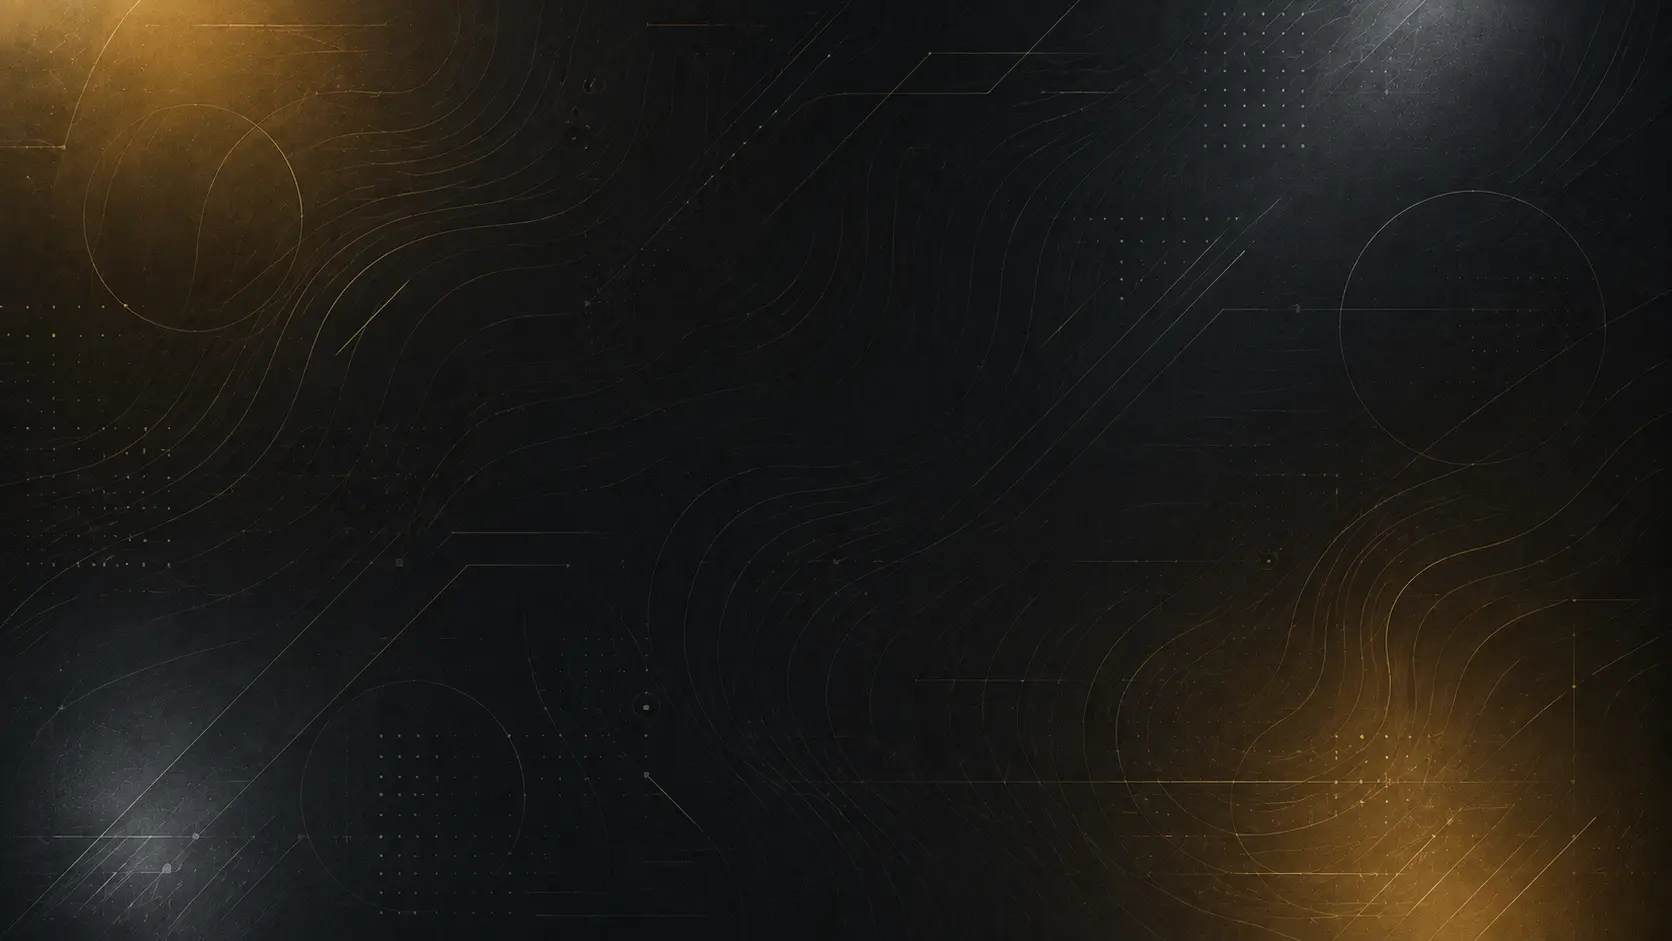
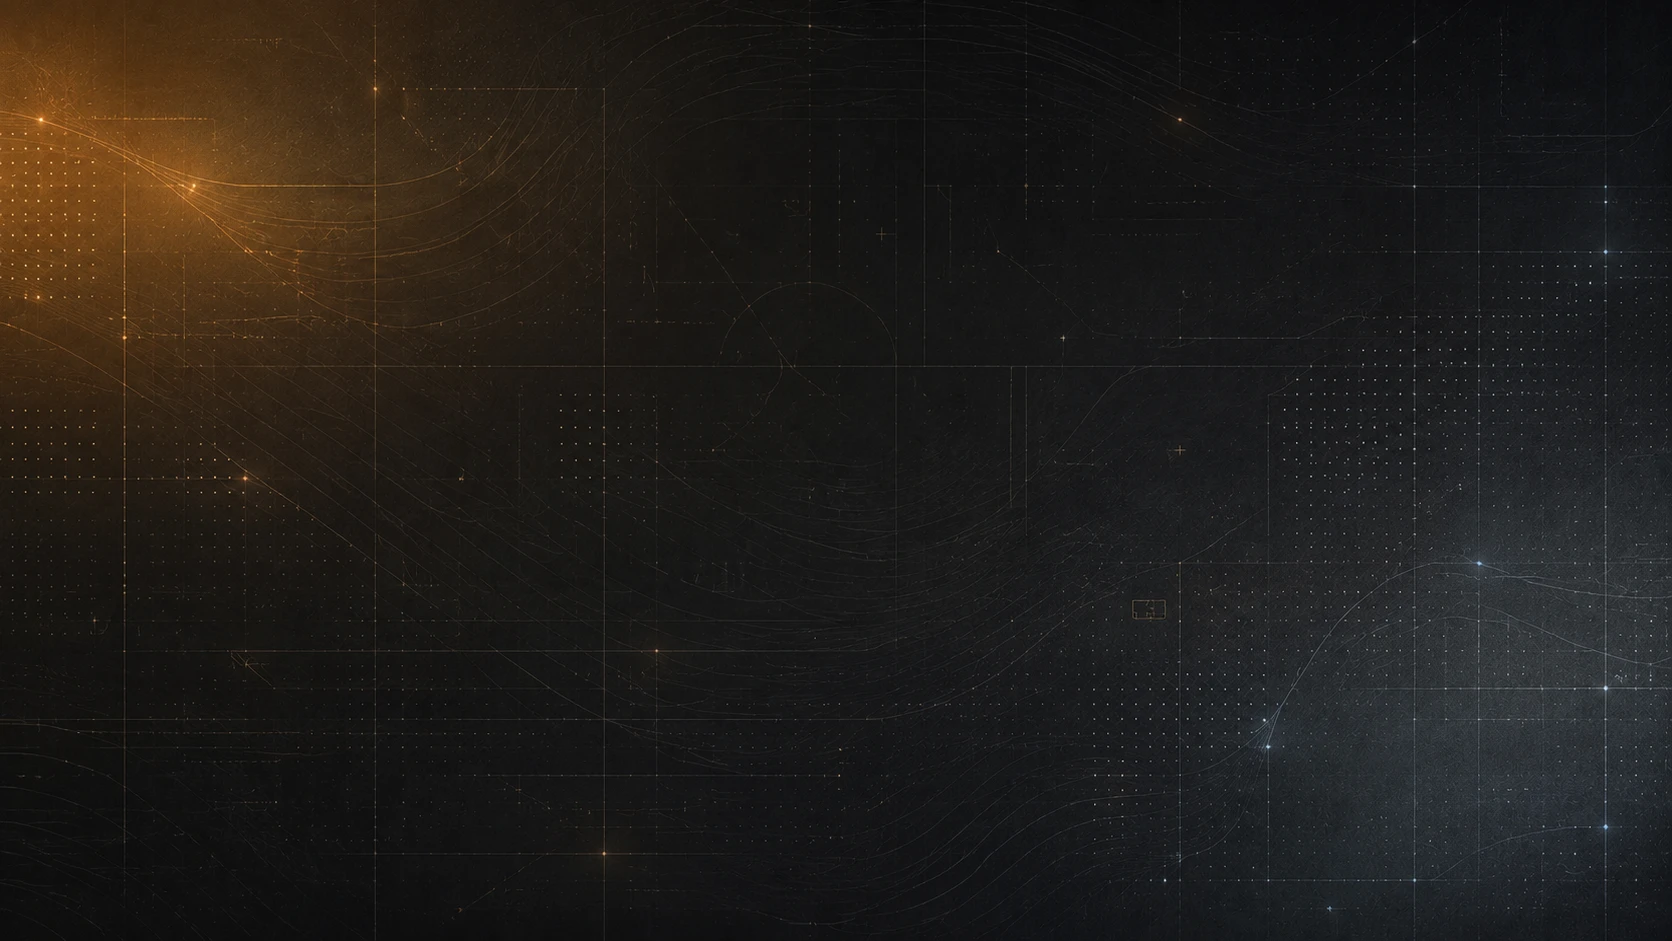
changes made

diff --git a/src/components/sections/Programs.tsx b/src/components/sections/Programs.tsx
@@ -1,6 +1,7 @@
 import Image from "next/image";
 import { ArrowRight } from "lucide-react";
 import { CardGrid, Icon, ProgramCard, Eyebrow, Heading, BodyText, ButtonLink } from "@/components/ui";
+import { Container } from "@/components/layout";
 import { AnimationWrapper, KineticHeadline, ParallaxLayer, MagneticButton } from "@/components/motion";
 import { programs } from "@/content/programs";
 
@@ -15,6 +16,68 @@ import { programs } from "@/content/programs";
  * so it never ends abruptly. Static — no parallax; the TrainingBanner
  * below is this section's one Tier-2 depth cue.
  */
+
+/**
+ * Program card material plane — a SINGLE full-bleed backdrop for the entire
+ * card zone (not confined to any card or Container). Sourced from the
+ * already-approved `luxury-grid-pattern.webp`. It spans the full viewport
+ * width and runs from the bottom edge of the environment image down to the
+ * end of the section, so the luxury grid pattern — not flat dark — is what
+ * shows behind and between the cards, in every otherwise-black background
+ * area. A vertical mask fades the pattern IN from exactly where the
+ * environment image ends (top) and back OUT just before the next section
+ * (bottom), so there is never a hard edge. Fully static — no parallax, no
+ * animation.
+ *
+ * Rendered as a CSS `background-image` rather than `next/image`, because the
+ * pattern must TILE: `PATTERN_SIZE` ("100% auto") scales it to the full
+ * viewport width at its natural aspect ratio — never stretched — and
+ * `PATTERN_REPEAT` ("repeat-y") stacks copies downward so the backdrop stays
+ * continuous however tall the card zone gets. `next/image` with `fill` can
+ * only cover/contain a single instance, so it cannot express a tiled plane.
+ *
+ * Named constants (not inline literals) keep the tuning as one documented
+ * decision:
+ *  - PATTERN_SIZE     — swap the "auto" for a px/% value to scale the tile.
+ *  - PATTERN_REPEAT   — "repeat-y" (vertical tiling) / "repeat" / "no-repeat".
+ *  - PATTERN_OPACITY  — how present the pattern reads.
+ *  - PATTERN_FADE_MASK — transparency mask (not a dark overlay) so the plane
+ *    dissolves into the section background at top and bottom.
+ *
+ * Layering: `z-0` sits above the section's own dark gradient background but
+ * below the card rows (`z-10`). Each `ProgramCard`'s own dark veil (its
+ * resting "shadow", see ProgramCard's MATERIAL_BACKDROP_CLASS) still sits
+ * above this plane and fades on hover to let the pattern shine through as a
+ * backlight around that card.
+ *
+ * The top offsets (280/320/380px) match the environment image's responsive
+ * heights above, so the pattern begins exactly where that image ends.
+ */
+const PATTERN_URL = "url('/images/sections/programs/luxury-grid-pattern.webp')";
+const PATTERN_SIZE = "100% auto"; // full width, natural aspect ratio — no stretch
+const PATTERN_REPEAT = "repeat-y"; // tile downward for a continuous backdrop
+const PATTERN_OPACITY = 0.9;
+const PATTERN_FADE_MASK =
+  "linear-gradient(to bottom, transparent 0px, #000 160px, #000 calc(100% - 80px), transparent 100%)";
+
+function ProgramMaterialPlane() {
+  return (
+    <div
+      aria-hidden="true"
+      className="pointer-events-none absolute inset-x-0 bottom-0 top-[280px] z-0 overflow-hidden sm:top-[320px] lg:top-[380px]"
+      style={{
+        backgroundImage: PATTERN_URL,
+        backgroundSize: PATTERN_SIZE,
+        backgroundRepeat: PATTERN_REPEAT,
+        backgroundPosition: "top center",
+        opacity: PATTERN_OPACITY,
+        WebkitMaskImage: PATTERN_FADE_MASK,
+        maskImage: PATTERN_FADE_MASK,
+      }}
+    />
+  );
+}
+
 export function Programs() {
   const firstRow = programs.slice(0, 3);
   const secondRow = programs.slice(3);
@@ -151,38 +214,50 @@ export function Programs() {
         }}
       />
 
-      <div className="relative z-10 flex flex-col gap-10 pt-10">
-        <p className="-mt-4 flex items-center gap-2 font-body text-caption font-semibold uppercase tracking-wide text-text-secondary-dark sm:hidden">
-          Swipe to explore all 9 programs
-          <Icon icon={ArrowRight} size="sm" aria-hidden />
-        </p>
-        <CardGrid columns={3} reveal="premium">
-          {firstRow.map((program, index) => (
-            <ProgramCard
-              key={program.slug}
-              program={program}
-              index={index}
-              featured={program.slug === "crossfit"}
-              motion="premium"
-            />
-          ))}
-        </CardGrid>
+      {/* Full-bleed luxury pattern backdrop for the whole card zone — spans
+          the viewport width and fades in from where the environment image
+          ends, so the pattern (not flat dark) fills the background behind
+          and between every card row. */}
+      <ProgramMaterialPlane />
+
+      <div className="relative z-10 pt-10">
+        <Container>
+          <div className="flex flex-col gap-10">
+            <p className="-mt-4 flex items-center gap-2 font-body text-caption font-semibold uppercase tracking-wide text-text-secondary-dark sm:hidden">
+              Swipe to explore all 9 programs
+              <Icon icon={ArrowRight} size="sm" aria-hidden />
+            </p>
+            <CardGrid columns={3} reveal="premium" className="relative z-10">
+              {firstRow.map((program, index) => (
+                <ProgramCard
+                  key={program.slug}
+                  program={program}
+                  index={index}
+                  featured={program.slug === "crossfit"}
+                  motion="premium"
+                />
+              ))}
+            </CardGrid>
+          </div>
+        </Container>
       </div>
 
       <TrainingBanner />
 
-      <div className="relative z-10 flex flex-col gap-10">
-        <CardGrid columns={3} reveal="premium">
-          {secondRow.map((program, index) => (
-            <ProgramCard
-              key={program.slug}
-              program={program}
-              index={index + firstRow.length}
-              featured={program.slug === "crossfit"}
-              motion="premium"
-            />
-          ))}
-        </CardGrid>
+      <div className="relative z-10">
+        <Container>
+          <CardGrid columns={3} reveal="premium" className="relative z-10">
+            {secondRow.map((program, index) => (
+              <ProgramCard
+                key={program.slug}
+                program={program}
+                index={index + firstRow.length}
+                featured={program.slug === "crossfit"}
+                motion="premium"
+              />
+            ))}
+          </CardGrid>
+        </Container>
       </div>
     </div>
   );

diff --git a/src/components/ui/ProgramCard.tsx b/src/components/ui/ProgramCard.tsx
@@ -64,6 +64,28 @@ const PREMIUM_ITEM = {
   },
 } as const;
 
+/**
+ * Material backdrop tuning — the card's resting dark veil that dims the
+ * shared pattern plane behind the Programs card rows (see Programs.tsx's
+ * `ProgramMaterialPlane`). Kept as named constants, never inline literals,
+ * so the "barely there at rest, glows on hover" balance is one documented
+ * decision.
+ *
+ *  - Rest veil `bg-ink/40`: 40% Ink over the pattern at rest, so the pattern
+ *    reads only faintly through it. The alpha is carried on the color
+ *    (`/40`) — not element opacity — so the element's own `opacity` stays
+ *    free for the hover fade below.
+ *  - On `lg:group-hover` (desktop pointer) and `group-active` (touch tap)
+ *    the whole veil fades to `opacity-0`, uncovering the bright pattern in
+ *    the ring the veil extends into around the card — the backlight effect.
+ *  - `-inset-4` + `blur-2xl` spread the veil past the card edges so the
+ *    reveal reads as a soft halo around the card, not a hard rectangle.
+ */
+const MATERIAL_BACKDROP_CLASS =
+  "pointer-events-none absolute -inset-4 z-0 rounded-card bg-ink/40 blur-2xl " +
+  "motion-safe:transition-opacity motion-safe:duration-500 ease-out " +
+  "lg:group-hover:opacity-0 group-active:opacity-0";
+
 /** Breathing loop — near-invisible ambient scale on the image layer only.
  *  Not `as const` on the whole object — Framer Motion requires mutable
  *  (non-readonly) keyframe arrays for `scale` and `times`. `as const` is
@@ -131,7 +153,7 @@ export function ProgramCard({
       className="group block h-full rounded-card transition-opacity duration-200 ease-out active:opacity-90"
     >
       <motion.div
-        className="h-full"
+        className="relative isolate h-full"
         {...(premium
           ? {
               // Premium: the outer wrapper owns the scroll-reveal only. The
@@ -151,9 +173,20 @@ export function ProgramCard({
               transition: { duration: 0.22, ease: [0.16, 1, 0.3, 1] },
             })}
       >
+        {/* Material backdrop — the card's resting "shadow": a soft dark
+            veil (MATERIAL_BACKDROP_REST_OPACITY) that dims the premium
+            pattern plane behind the Programs card row so it reads only
+            faintly at rest. On desktop hover (and touch active) this card's
+            veil fades to 0, uncovering the bright pattern in the ring around
+            the card — a backlight/"light behind the card" effect. Purely a
+            veil over the shared plane; the plane itself never moves. Under
+            reduced motion the fade is instant (motion-safe: gate), the final
+            state is still reachable, so no content depends on animation. */}
+        <div aria-hidden="true" className={MATERIAL_BACKDROP_CLASS} />
+
         <Card
           className={cn(
-            "flex h-full flex-col",
+            "relative z-10 flex h-full flex-col",
             featured
               ? "motion-safe:animate-[card-glow_3s_ease-in-out_infinite] shadow-[0_0_0_1px_rgb(255_222_1_/_0.45),0_0_24px_rgb(255_222_1_/_0.18)]"
               : "border border-border-subtle/60"
